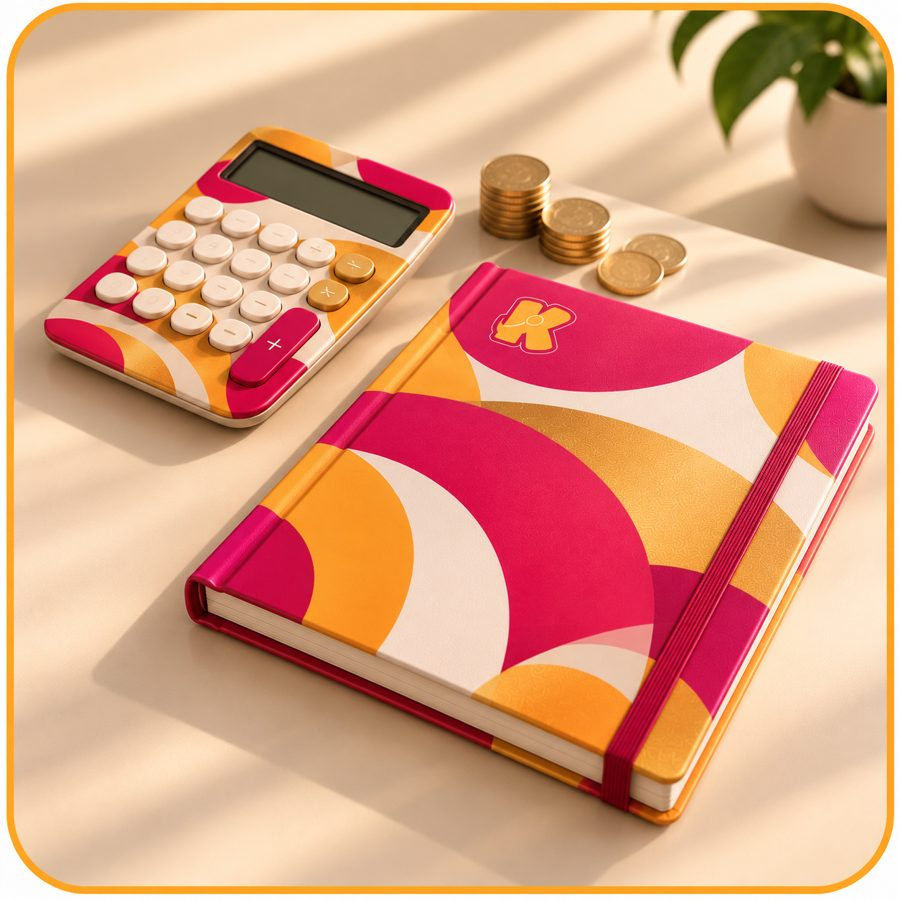
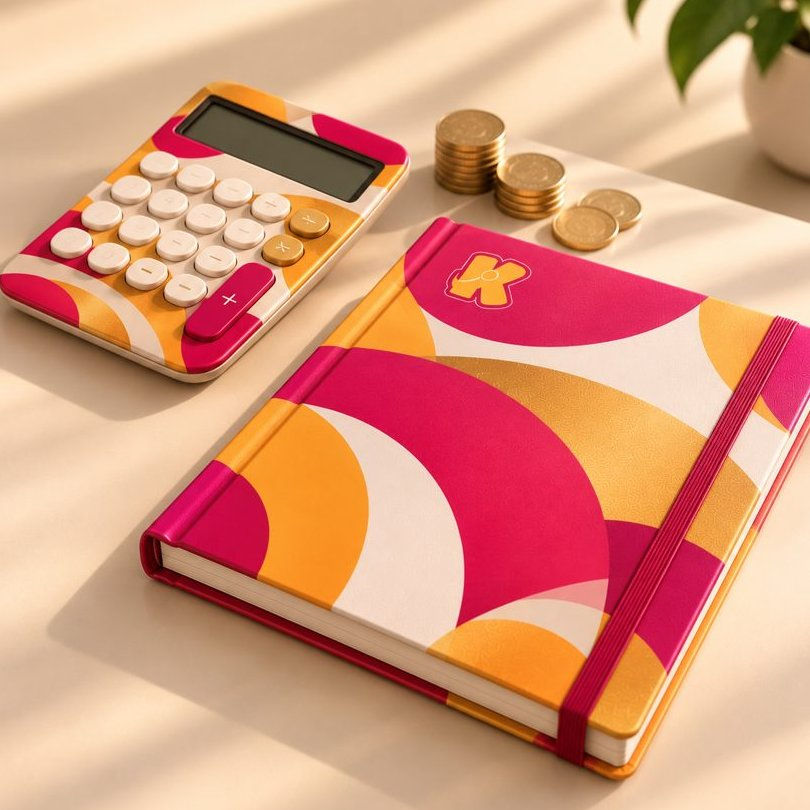
Remove baked-in orange border from HR/Finance card images, add website link
- Crop the HR and Finance card images to remove the leftover orange
  border baked into the generated image (the Jobs image never had one,
  making the three tiles inconsistent)
- Add a 'Visit our website' pill to the greeting card, below the
  attendance placeholder — the real Kretivco logo, opens kretiv.co in a
  new tab. Went through a screenshot-preview variant first but settled
  on a plain, larger pill per feedback.

diff --git a/resources/views/os/home.blade.php b/resources/views/os/home.blade.php
@@ -39,6 +39,16 @@
                         Clock In
                     </button>
                 </div>
+
+                {{-- Quick link out to the public marketing site. --}}
+                <a href="https://kretiv.co" target="_blank" rel="noopener" class="mt-4 flex items-center gap-3 rounded-xl bg-white/5 border border-white/10 px-4 py-3.5 hover:border-white/25 transition-colors">
+                    <img src="{{ asset('images/kretivco-logo.png') }}" alt="" class="w-10 h-10 shrink-0">
+                    <div class="flex-1 min-w-0">
+                        <p class="text-sm font-semibold text-white">Visit our website</p>
+                        <p class="text-xs text-white/40">kretiv.co</p>
+                    </div>
+                    <span class="text-white/40 text-lg">→</span>
+                </a>
             </div>
 
             {{-- Module launcher tiles — simple/uniform, the whole tile is
